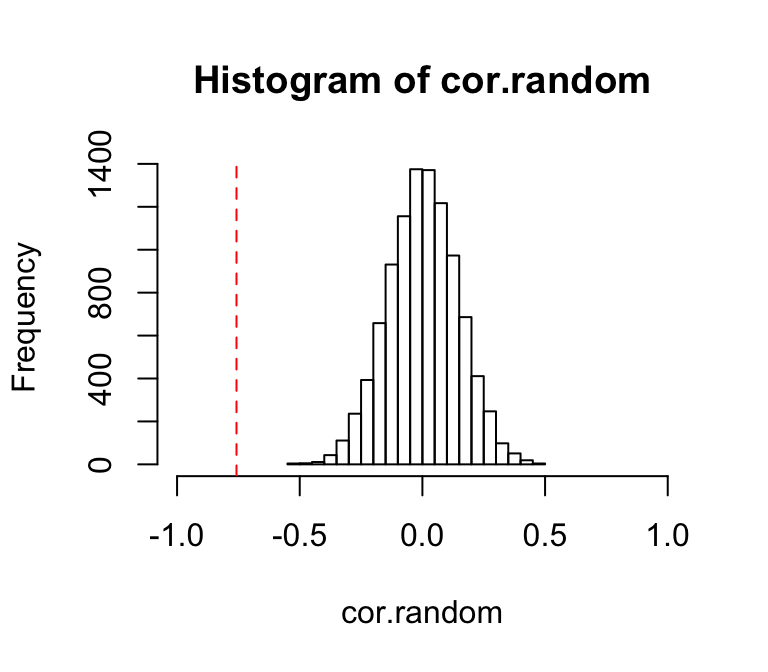
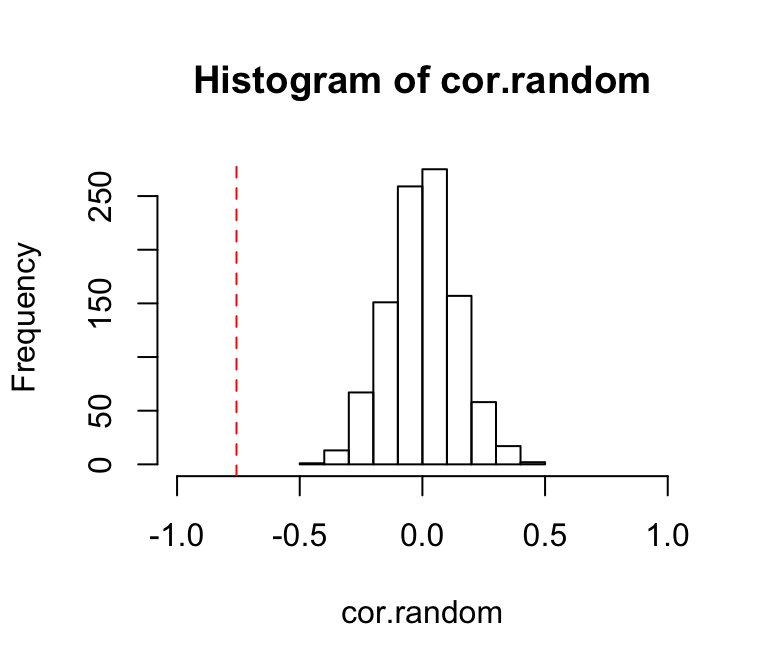
update

diff --git a/09_permutations.html b/09_permutations.html
@@ -287,7 +287,7 @@ plot(V(g)$trait.random, degree(g))</code></pre>
 <pre class="r"><code>cor(V(g)$trait.random, degree(g))</code></pre>
 <pre><code>## [1] 0.1578334</code></pre>
 <p>Now, we will conduct this randomization a large number of times (say 1000 times) and measure the correlation coefficient each time. This will generate a null distribution of the correlation coefficient.</p>
-<pre class="r"><code>times=10000
+<pre class="r"><code>times=1000
 cor.random=vector(length=times)
 for(i in 1:times){
   V(g)$trait.random=sample(V(g)$trait, length(V(g)$trait), replace=F)
